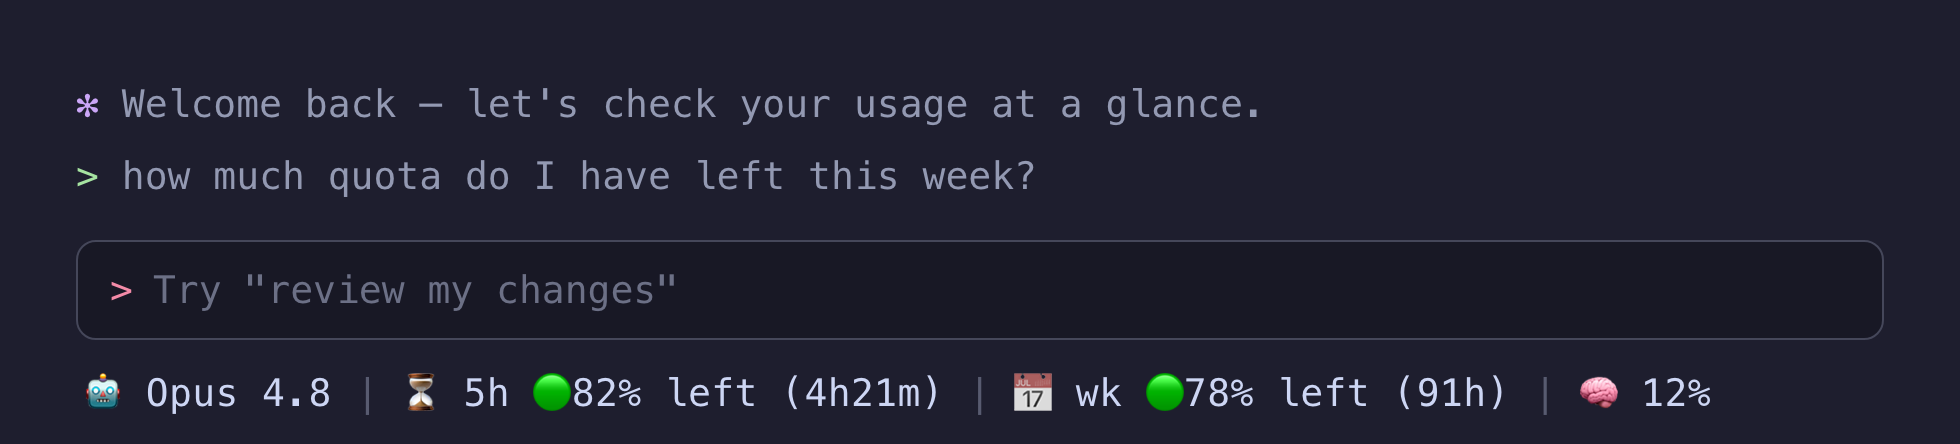
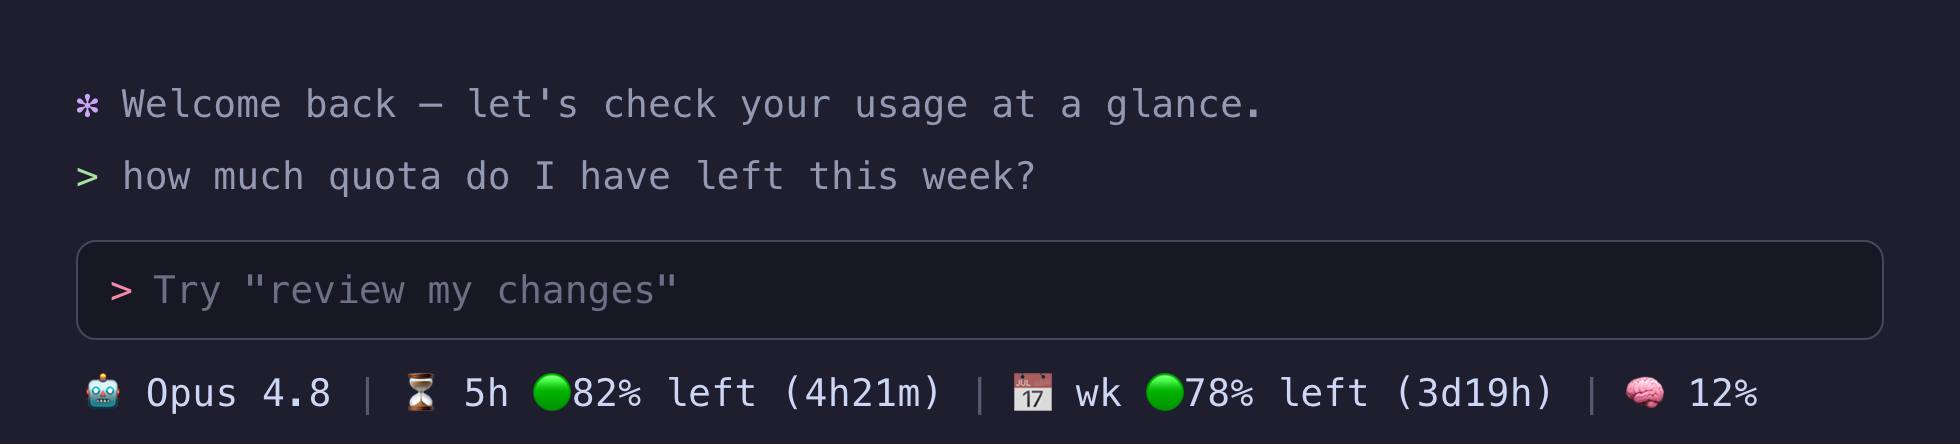
Weekly reset in days; recolor thresholds to >50/20-50/<20
- Weekly window reset now shows days (e.g. 3d19h); 5h window stays h/m
- Dot color: 🟢 >50% / 🟡 20-50% / 🔴 <20% remaining (both windows)
- Update README and preview screenshot to match

Changed region(s): [[0.7158, 0.8491, 0.9026, 0.9369]]

diff --git a/statusline-quota.py b/statusline-quota.py
@@ -38,8 +38,12 @@ STRINGS = {
 T = STRINGS.get(LANG, STRINGS["en"])
 
 
-def fmt_reset(ts):
-    """Return a compact 'until reset' string like '4h21m' or '12m'."""
+def fmt_reset(ts, days=False):
+    """Return a compact 'until reset' string.
+
+    days=False -> hours/minutes, e.g. '4h21m' or '12m'.
+    days=True  -> days/hours,    e.g. '3d19h' or '7h'.
+    """
     if not ts:
         return ""
     ts = float(ts)
@@ -48,11 +52,14 @@ def fmt_reset(ts):
     secs = int(ts - time.time())
     if secs <= 0:
         return ""
+    if days:
+        d, h = secs // 86400, (secs % 86400) // 3600
+        return f"{d}d{h}h" if d else f"{h}h"
     h, m = secs // 3600, (secs % 3600) // 60
     return f"{h}h{m}m" if h else f"{m}m"
 
 
-def window_segment(emoji, label, win):
+def window_segment(emoji, label, win, reset_in_days=False):
     """Format one usage window (5h / weekly) as 'emoji label 🟢NN% left (reset)'."""
     if not win:
         return None
@@ -60,9 +67,9 @@ def window_segment(emoji, label, win):
     if used is None:
         return None
     left = max(0, 100 - used)
-    icon = "🟢" if left > 30 else ("🟡" if left > 10 else "🔴")
+    icon = "🟢" if left > 50 else ("🟡" if left >= 20 else "🔴")
     s = f"{emoji} {label} {icon}{T['left'].format(left=left)}"
-    reset = fmt_reset(win.get("resets_at"))
+    reset = fmt_reset(win.get("resets_at"), days=reset_in_days)
     if reset:
         s += " " + T["reset"].format(reset=reset)
     return s
@@ -90,7 +97,7 @@ def main():
 
     rl = data.get("rate_limits") or {}
     s5 = window_segment("⏳", T["5h"], rl.get("five_hour"))
-    s7 = window_segment("📅", T["wk"], rl.get("seven_day"))
+    s7 = window_segment("📅", T["wk"], rl.get("seven_day"), reset_in_days=True)
     if s5:
         parts.append(s5)
     if s7:

diff --git a/README.md b/README.md
@@ -7,16 +7,16 @@ It shows how much of your **usage limits** are left — the rolling **5-hour win
 ![Claude Code quota statusline preview](preview.png)
 
 ```
-🤖 Opus 4.8 | ⏳ 5h 🟢82% left (4h21m) | 📅 wk 🟢78% left (91h) | 🧠 12%
+🤖 Opus 4.8 | ⏳ 5h 🟢82% left (4h21m) | 📅 wk 🟢78% left (3d19h) | 🧠 12%
 ```
 
 | Segment | Meaning |
 | --- | --- |
 | 🤖 | Active model |
-| ⏳ 5h | Remaining quota in the rolling 5-hour window + time until reset |
-| 📅 wk | Remaining quota in the weekly (7-day) window + time until reset |
+| ⏳ 5h | Remaining quota in the rolling 5-hour window + time until reset (h/m) |
+| 📅 wk | Remaining quota in the weekly (7-day) window + time until reset (d/h) |
 | 🧠 | Current context-window usage |
-| 🟢 / 🟡 / 🔴 | >30% / >10% / ≤10% remaining |
+| 🟢 / 🟡 / 🔴 | >50% / 20–50% / <20% remaining |
 
 ## How it works
 
@@ -77,7 +77,7 @@ Set `CC_QUOTA_LANG=zh` for Chinese labels (default is English):
 ```
 
 ```
-🤖 Opus 4.8 | ⏳ 5h 🟢76%剩 (4h12m重置) | 📅 周 🟢78%剩 (91h12m重置) | 🧠 0%
+🤖 Opus 4.8 | ⏳ 5h 🟢76%剩 (4h12m重置) | 📅 周 🟢78%剩 (3d19h重置) | 🧠 9%
 ```
 
 ## Debugging